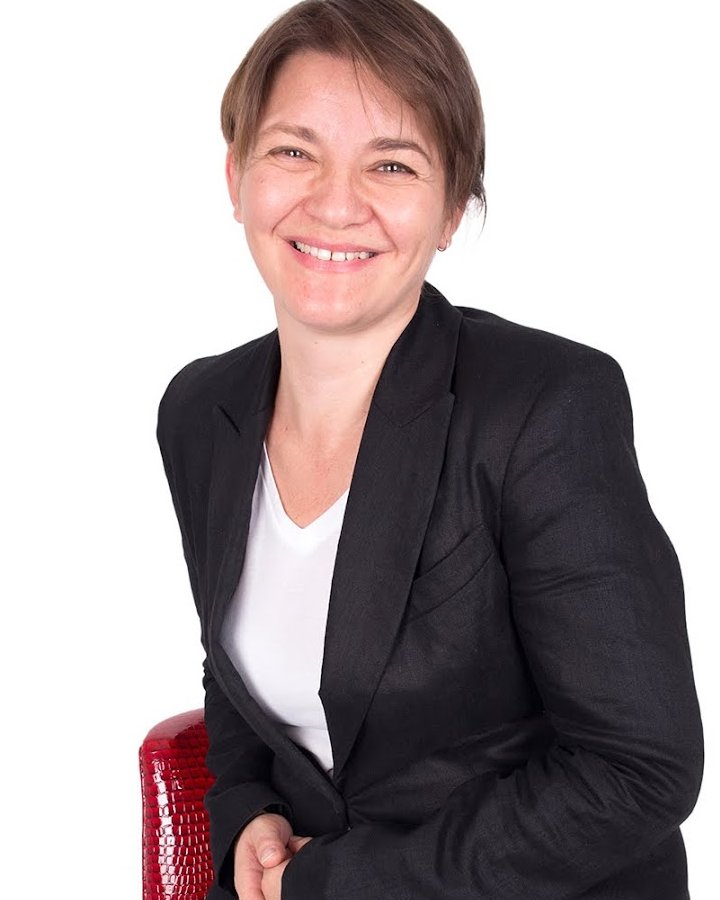
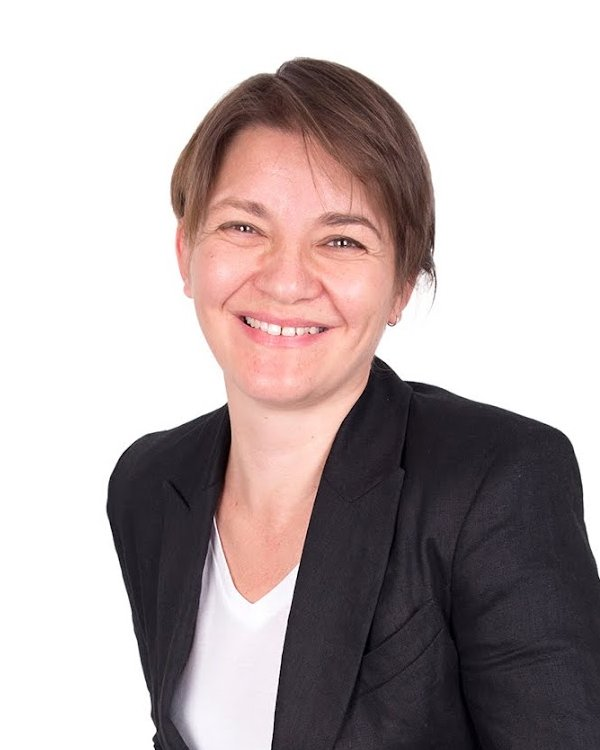
Irene: tighter head-and-shoulders crop; keep old photo files so cached copies don't show broken images
Claude-Session: https://claude.ai/code/session_01WHzTKoNsZ87wx9fHQfZEQo

diff --git a/sw.js b/sw.js
@@ -1,7 +1,7 @@
 // Push notifications (OneSignal)
 importScripts("https://cdn.onesignal.com/sdks/web/v16/OneSignalSDK.sw.js");
 // Offline support: serve the app from cache, refresh it in the background.
-const CACHE = 'ja-app-v38';
+const CACHE = 'ja-app-v39';
 const FILES = ['/', '/index.html', '/manifest.json', '/icons/icon-192.png', '/icons/icon-512.png'];
 self.addEventListener('install', e => { e.waitUntil(caches.open(CACHE).then(c => c.addAll(FILES))); self.skipWaiting(); });
 self.addEventListener('activate', e => {

diff --git a/team.js b/team.js
@@ -166,7 +166,7 @@ window.TEAM = [
     }
   },
   {
-    id: "irene", img: "images/team/irene-2.jpg", photo2: "images/team/irene-mountain.jpg",
+    id: "irene", img: "images/team/irene-3.jpg", photo2: "images/team/irene-mountain.jpg",
     en: {
       name: "Irene Rizzin", role: "English Tutor · Mosaic Art in English",
       photo2Caption: "Irene on a winter day in the mountains.",
